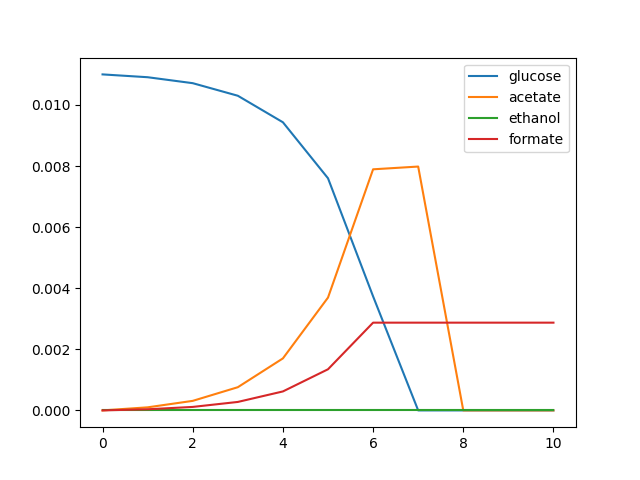
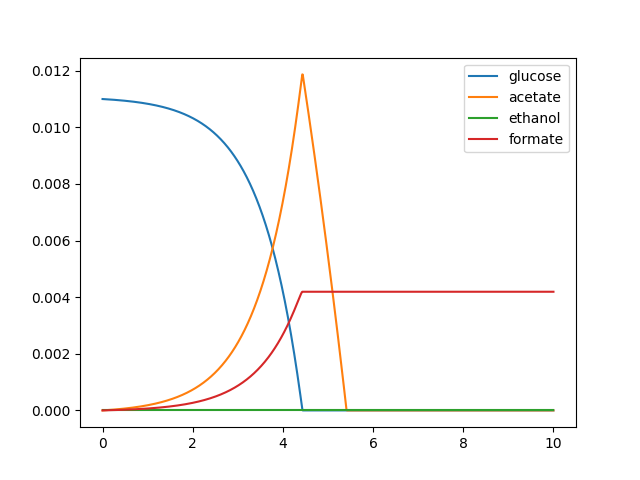
Run longer simulation

diff --git a/vivarium_comets/processes/comets.py b/vivarium_comets/processes/comets.py
@@ -155,7 +155,7 @@ def run_comets_process():
     e_coli_cobra = cobra.io.load_model('textbook')
     
     # Set the settings
-    comets_config = {'time_step': 1.0,
+    comets_config = {'time_step': 0.01,
                      'dimensions': [1,1],
                      'metabolite_ids': [met.id for met in e_coli_cobra.metabolites]}
     comets_sim_settings = {
